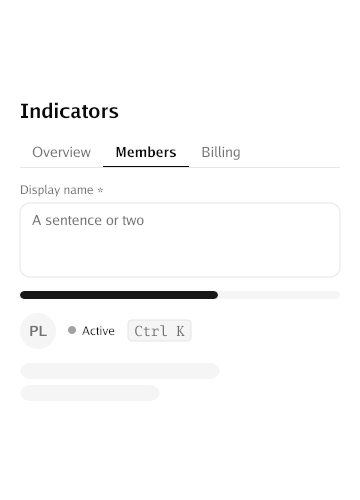
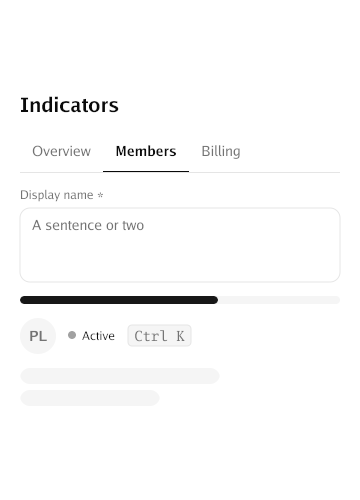
Tabs: scroll sideways when they are wider than the room, and be 44 points high
Five tabs with their words are wider than a phone. The row laid them out in a
flex with no scroll, so the first two were cut at the edge, the third truncated
and the rest could not be reached by any means. They are a strip that scrolls
now, and a tab chosen by the screen (Select, or a press) is brought into view.

A tab was 33 points high, text and padding: a thumb misses it. The least height
of a row a finger has to hit is a constant now, 44 points, and the tab is
centred in it.

diff --git a/widget/tabs.go b/widget/tabs.go
@@ -20,20 +20,26 @@ import (
 type Tabs struct {
 	selected int
 	clicks   []engine.Clickable
+
+	// row is the strip the tabs are laid out in, which scrolls sideways when
+	// they are wider than the room, and reveal says that the selected one is to
+	// be brought into view on the next frame.
+	row    layout.List
+	reveal bool
 }
 
 // Selected is the index showing.
 func (t *Tabs) Selected() int { return t.selected }
 
 // Select shows one, for the state a screen arrives with.
-func (t *Tabs) Select(index int) { t.selected = index }
+func (t *Tabs) Select(index int) { t.selected, t.reveal = index, true }
 
 // Changed reports that somebody chose a different tab, and consumes that.
 func (t *Tabs) Changed(c ayra.Context) bool {
 	changed := false
 	for index := range t.clicks {
 		if t.clicks[index].Clicked(c.Context) && t.selected != index {
-			t.selected, changed = index, true
+			t.selected, t.reveal, changed = index, true, true
 		}
 	}
 	return changed
@@ -78,15 +84,20 @@ func (p TabsProps) layout(c ayra.Context, state *Tabs) ayra.Dimensions {
 		state.selected = 0
 	}
 
-	children := make([]layout.FlexChild, 0, len(p.Labels))
-	for index, label := range p.Labels {
-		index, label := index, label
-		children = append(children, layout.Rigid(func(gtx layout.Context) layout.Dimensions {
-			return p.tab(c.With(gtx), state, index, label)
-		}))
+	// The tabs are a strip that scrolls: more of them, or longer words, than the
+	// room has were cut off at its edge, and the ones past it could not be
+	// reached by any means. A strip is as wide as the room and the tabs take what
+	// they need.
+	state.row.Axis = layout.Horizontal
+	if state.reveal {
+		state.row.ScrollTo(state.selected)
+		state.reveal = false
 	}
-
-	dims := layout.Flex{Axis: layout.Horizontal}.Layout(c.Context, children...)
+	room := c
+	room.Constraints.Min = image.Point{}
+	dims := state.row.Layout(room.Context, len(p.Labels), func(gtx layout.Context, index int) layout.Dimensions {
+		return p.tab(c.With(gtx), state, index, p.Labels[index])
+	})
 
 	// The rule under the whole row, drawn after the tabs so the selected one's
 	// own marker sits on top of it rather than beside it.
@@ -108,13 +119,21 @@ func (p TabsProps) tab(c ayra.Context, state *Tabs, index int, label string) ayr
 		inner := c.With(gtx)
 		inner.Constraints.Min = image.Point{}
 
-		dims := layout.Inset{Top: 8, Bottom: 8, Left: 12, Right: 12}.Layout(inner.Context, func(gtx layout.Context) layout.Dimensions {
+		// A tab is at least 44 points high: a finger is not a pointer, and the
+		// text and its padding are 33.
+		dims := layout.Inset{Left: 12, Right: 12}.Layout(inner.Context, func(gtx layout.Context) layout.Dimensions {
+			gtx.Constraints.Min.Y = c.Dp(touchTarget)
 			var icon icons.Icon
 			if index < len(p.Icons) {
 				icon = p.Icons[index]
 			}
-			if icon.IsZero() {
+			// Centred in the height, whatever the tab holds.
+			words := layout.Rigid(func(gtx layout.Context) layout.Dimensions {
+				gtx.Constraints.Min = image.Point{}
 				return drawText(inner.With(gtx), label, unit.Sp(c.Theme.Type.Body), ink, 1, text.Middle, face)
+			})
+			if icon.IsZero() {
+				return layout.Flex{Axis: layout.Horizontal, Alignment: layout.Middle}.Layout(gtx, words)
 			}
 			side := c.Dp(unit.Dp(c.Theme.Type.Body))
 			return layout.Flex{Axis: layout.Horizontal, Alignment: layout.Middle}.Layout(gtx,
@@ -123,9 +142,7 @@ func (p TabsProps) tab(c ayra.Context, state *Tabs, index int, label string) ayr
 					return layout.Dimensions{Size: image.Pt(side, side)}
 				}),
 				layout.Rigid(layout.Spacer{Width: 6}.Layout),
-				layout.Rigid(func(gtx layout.Context) layout.Dimensions {
-					return drawText(inner.With(gtx), label, unit.Sp(c.Theme.Type.Body), ink, 1, text.Middle, face)
-				}),
+				words,
 			)
 		})
 

diff --git a/widget/tabs_phone_test.go b/widget/tabs_phone_test.go
@@ -1,0 +1,66 @@
+package widget_test
+
+import (
+	"image"
+	"testing"
+
+	"github.com/arandu-io/ayra"
+	"github.com/arandu-io/ayra/engine/f32"
+	"github.com/arandu-io/ayra/engine/io/pointer"
+	"github.com/arandu-io/ayra/widget"
+)
+
+var longTabs = []string{"Visão geral das câmeras", "Leituras de placas do dia", "Configurações avançadas do motor", "Faturamento", "Integrações com outros sistemas"}
+
+type tabsScreen struct {
+	tabs widget.Tabs
+}
+
+func (s *tabsScreen) draw(c ayra.Context) ayra.Dimensions {
+	s.tabs.Changed(c)
+	return widget.TabsProps{Labels: longTabs}.Layout(c, &s.tabs)
+}
+
+// TestTabsTallerThanTheirTextAreEasyToHit: a tab was 33 points high.
+func TestTabsAreAtLeast44PointsHigh(t *testing.T) {
+	p, s := phone(100), new(tabsScreen)
+	dims := p.draw(s.draw)
+	if dims.Size.Y < 44 {
+		t.Errorf("the tabs are %d points high, want at least 44", dims.Size.Y)
+	}
+}
+
+// TestTabsWiderThanTheRoomScrollToTheLastOne: five tabs with their words are
+// wider than a phone, and the ones past its edge could not be reached.
+func TestTabsWiderThanTheRoomScrollToTheLastOne(t *testing.T) {
+	p, s := phone(100), new(tabsScreen)
+	p.draw(s.draw)
+
+	p.router.Queue(pointer.Event{Kind: pointer.Scroll, Source: pointer.Mouse, Position: f32.Pt(100, 20), Scroll: f32.Pt(4000, 0)})
+	p.draw(s.draw)
+	p.draw(s.draw)
+
+	// The last tab is at the right end of the strip now.
+	p.tap(image.Pt(380, 20), s.draw)
+	p.draw(s.draw)
+
+	if got := s.tabs.Selected(); got != len(longTabs)-1 {
+		t.Errorf("a press at the right end of the strip, scrolled to its end, selected tab %d, want %d", got, len(longTabs)-1)
+	}
+}
+
+// TestSelectingATabBringsItIntoView: a tab chosen by the screen is not left
+// beyond the edge.
+func TestSelectingATabBringsItIntoView(t *testing.T) {
+	p, s := phone(100), new(tabsScreen)
+	s.tabs.Select(len(longTabs) - 1)
+	p.draw(s.draw)
+	p.draw(s.draw)
+
+	// Pressing the left of the strip must not be the first tab: the strip moved.
+	p.tap(image.Pt(20, 20), s.draw)
+	p.draw(s.draw)
+	if got := s.tabs.Selected(); got == 0 {
+		t.Error("the strip still starts at the first tab after the last one was selected")
+	}
+}

diff --git a/frame/overlay_phone_golden_test.go b/frame/overlay_phone_golden_test.go
@@ -21,6 +21,7 @@ func TestTheOverlaysFitAPhone(t *testing.T) {
 		{screen: screen{name: "dialog-phone-keyboard", width: 390, height: 440, draw: dialogTallScreen}},
 		{screen: screen{name: "dialog-over-bars", width: 390, height: 640, draw: dialogOverBars}},
 		{screen: screen{name: "drawer-over-bars", width: 390, height: 640, draw: drawerOverBars}},
+		{screen: screen{name: "tabs-phone", width: 390, height: 260, draw: tabsPhone}},
 		{screen: screen{name: "menu-phone", width: 390, height: 300, draw: menuRowScreen}},
 		{screen: screen{name: "popover-phone", width: 390, height: 260, draw: popoverRowScreen}},
 	} {
@@ -206,4 +207,31 @@ func drawerOverBars() ayra.Widget {
 			)
 		})
 	})
+}
+
+// tabsPhone is three rows of tabs on a phone: a few short ones, five with long
+// words that scroll and the last of them selected, and three with icons.
+func tabsPhone() ayra.Widget {
+	var few, many, iconic widget.Tabs
+	many.Select(4)
+	iconic.Select(1)
+	return func(c ayra.Context) ayra.Dimensions {
+		return layout.Inset{Top: 16, Left: 16, Right: 16}.Layout(c.Context, func(gtx layout.Context) layout.Dimensions {
+			inner := c.With(gtx)
+			inner.Constraints.Min = image.Point{}
+			return layout.Flex{Axis: layout.Vertical}.Layout(gtx,
+				layout.Rigid(func(gtx layout.Context) layout.Dimensions {
+					return widget.TabsProps{Labels: []string{"Detalhes", "Atividade", "Permissões"}}.Layout(inner.With(gtx), &few)
+				}),
+				layout.Rigid(layout.Spacer{Height: 16}.Layout),
+				layout.Rigid(func(gtx layout.Context) layout.Dimensions {
+					return widget.TabsProps{Labels: []string{"Visão geral das câmeras", "Leituras de placas do dia", "Configurações avançadas do motor", "Faturamento", "Integrações com outros sistemas"}}.Layout(inner.With(gtx), &many)
+				}),
+				layout.Rigid(layout.Spacer{Height: 16}.Layout),
+				layout.Rigid(func(gtx layout.Context) layout.Dimensions {
+					return widget.TabsProps{Labels: []string{"Câmeras", "Leituras", "Alertas"}, Icons: []icons.Icon{icons.Camera(), icons.Gear(), icons.Camera()}}.Layout(inner.With(gtx), &iconic)
+				}),
+			)
+		})
+	}
 }

diff --git a/widget/touch.go b/widget/touch.go
@@ -1,0 +1,9 @@
+package widget
+
+import "github.com/arandu-io/ayra/engine/unit"
+
+// touchTarget is the least height, in points, of a row or a strip a finger has
+// to hit: the tabs, the summary of a section, a step of a breadcrumb and a
+// destination of the navigation. The text in them is 17 points tall, and a row
+// that is only as tall as its text is one a thumb misses.
+const touchTarget unit.Dp = 44
